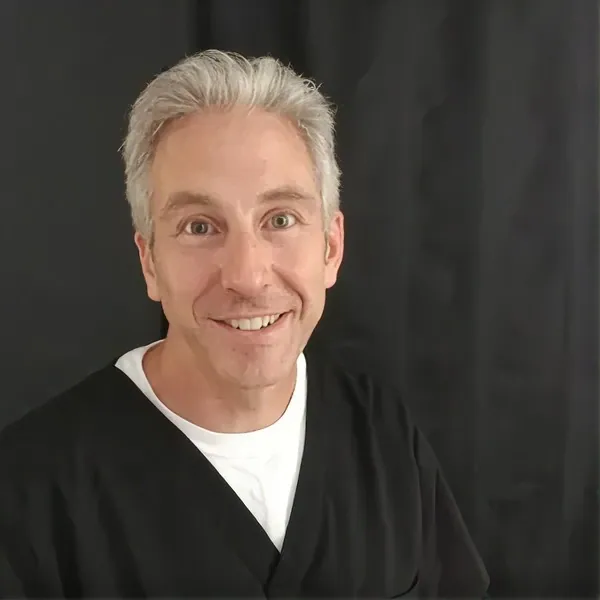
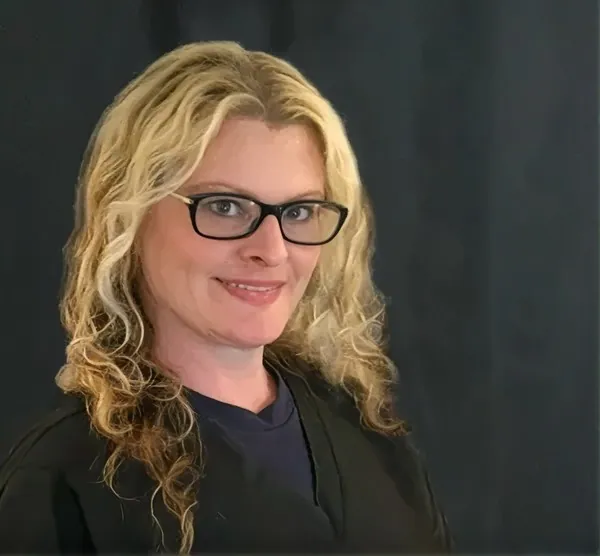
Update Colleen Levine team image asset to webp and OurTeam component

Changed region(s): [[0.09, 0.0306, 0.69, 1.0], [0.12, 0.8867, 0.15, 0.9784], [0.15, 0.9784, 0.18, 1.0]]

diff --git a/app/(medical)/(Medica)/zinnanti-surgical-3/_components/about/OurTeam.tsx b/app/(medical)/(Medica)/zinnanti-surgical-3/_components/about/OurTeam.tsx
@@ -41,7 +41,7 @@ const OurTeam = () => {
   return (
     <section className="w-full py-16 xl:py-24 bg-white overflow-hidden">
       <div className="custom-container flex flex-col items-center gap-12 sm:gap-16">
-        
+
         {/* Section Header: Centered */}
         <div
           className="text-center w-full max-w-full xl:max-w-[70%] mx-auto space-y-4"
@@ -68,11 +68,10 @@ const OurTeam = () => {
           {teamData.map((member, idx) => (
             <div
               key={member.name}
-              className={`w-full bg-white rounded-[20px] min-[3800px]:rounded-[36px] p-5 sm:p-6 border border-gray-200/90 shadow-md hover:shadow-xl transition-all duration-300 flex flex-col justify-between group ${
-                idx === 2
-                  ? "md:col-span-2 md:w-full md:max-w-[calc(50%-1rem)] md:mx-auto lg:col-span-1 lg:max-w-none lg:mx-0 min-[1036px]:col-span-1 min-[1036px]:max-w-none min-[1036px]:mx-0"
-                  : ""
-              }`}
+              className={`w-full bg-white rounded-[20px] min-[3800px]:rounded-[36px] p-5 sm:p-6 border border-gray-200/90 shadow-md hover:shadow-xl transition-all duration-300 flex flex-col justify-between group ${idx === 2
+                ? "md:col-span-2 md:w-full md:max-w-[calc(50%-1rem)] md:mx-auto lg:col-span-1 lg:max-w-none lg:mx-0 min-[1036px]:col-span-1 min-[1036px]:max-w-none min-[1036px]:mx-0"
+                : ""
+                }`}
               data-aos="fade-up"
               data-aos-delay={idx * 150}
             >
